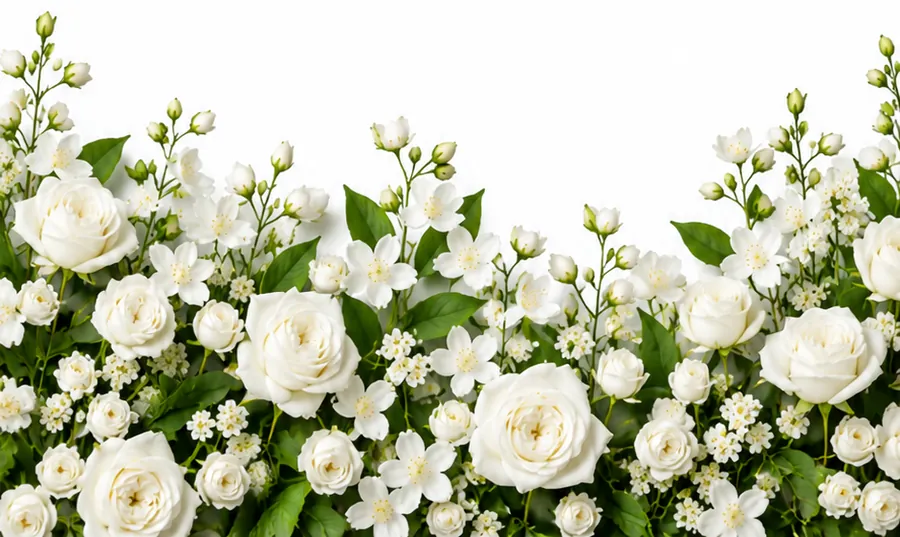
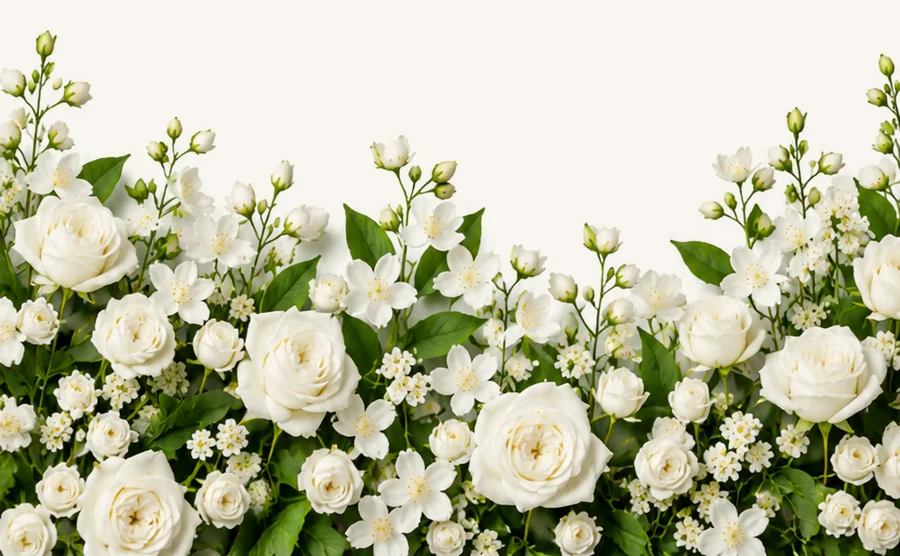
Gulzor: let the photographs flow into the page
The flower photographs are now multiplied onto the paper colour ahead of time, their cut edges feathered,
so no phone shows their white ground as a box. The bouquet fades out into a mist the hanging blossoms come
out of; the second flower border, which stacked against the roses, is gone; the closing flowers grow from
the foot of the page, under the replay buttons.

Claude-Session: https://claude.ai/code/session_01KqcxXTnvoWPWgEwA4zEgYt

diff --git a/src/templates/gulzor/GulzorInvitation.tsx b/src/templates/gulzor/GulzorInvitation.tsx
@@ -184,8 +184,7 @@ export function GulzorInvitation({ data, replayToken = 0, endSlot }: Props) {
 
         {stage === "scene" && (
           <>
-            <Sections data={data} />
-            {endSlot && <div className="gz-end">{endSlot}</div>}
+            <Sections data={data} endSlot={endSlot} />
           </>
         )}
       </div>
@@ -524,7 +523,7 @@ function dialable(phone: string) {
   return digits.length === 9 ? `998${digits}` : digits;
 }
 
-function Sections({ data }: { data: InviteData }) {
+function Sections({ data, endSlot }: { data: InviteData; endSlot?: ReactNode }) {
   const root = useReveal();
   const { d, m, y } = parseDate(data.date);
   const message = data.message || defaultMessage(data);
@@ -565,7 +564,7 @@ function Sections({ data }: { data: InviteData }) {
 
       {/* the day: date, place, programme and what to wear */}
       <section className="gz-panel gz-day">
-        <Wave d={WAVES[3]} />
+        {/* the blossoms hang out of the mist the bouquet fades into */}
         <Blossoms edge="top" seed={3} />
         <p className="gz-kick" data-reveal="up">
           Eng muhimi
@@ -643,7 +642,6 @@ function Sections({ data }: { data: InviteData }) {
         <div className="gz-heart" data-reveal="draw" style={delay(300)}>
           <Icon kind="heart" size={16} />
         </div>
-        <Blossoms edge="bottom" seed={9} />
       </section>
 
       {/* a line about love, under blush roses */}
@@ -741,6 +739,8 @@ function Sections({ data }: { data: InviteData }) {
           Sizni intiqlik bilan kutamiz!
         </p>
         <HeartRule />
+        {endSlot && <div className="gz-end">{endSlot}</div>}
+        {/* the garden grows up from the foot of the page */}
         <Blossoms edge="bottom" seed={17} />
       </section>
     </div>

diff --git a/src/templates/gulzor/gulzor.css b/src/templates/gulzor/gulzor.css
@@ -807,9 +807,9 @@
   z-index: 5;
   padding-top: 0;
 }
-/* the day rises over the foot of the bouquet */
-.gz-day > .gz-wave + .gz-blossoms-top {
-  margin-top: -6px;
+/* the hanging blossoms overlap the bouquet's foot: both fade to the paper there, so one dissolves into the other */
+.gz-day > .gz-blossoms-top:first-child {
+  margin-top: -44px;
 }
 .gz-way {
   padding-top: 26px;
@@ -823,6 +823,7 @@
   padding-top: 30px;
 }
 .gz-close {
+  padding-top: 8px;
   padding-bottom: 0;
 }
 
@@ -917,8 +918,8 @@
   width: 100%;
   aspect-ratio: 1;
   object-fit: cover;
-  -webkit-mask-image: linear-gradient(180deg, transparent 0%, #000 34%);
-  mask-image: linear-gradient(180deg, transparent 0%, #000 34%);
+  -webkit-mask-image: linear-gradient(180deg, transparent 0%, #000 26%, #000 52%, transparent 85%);
+  mask-image: linear-gradient(180deg, transparent 0%, #000 26%, #000 52%, transparent 85%);
 }
 .gz-drawn-bouquet {
   width: 78%;
@@ -936,7 +937,6 @@
   display: block;
   width: 100%;
   height: auto;
-  mix-blend-mode: multiply;
 }
 .gz-blossoms-top img {
   object-position: 50% 0;
@@ -948,7 +948,7 @@
   margin-bottom: 4px;
 }
 .gz-blossoms-bottom {
-  margin-top: 30px;
+  margin-top: 10px;
 }
 /* drawn stand-ins: two sprays leaning in from the corners */
 .gz-spray {
@@ -1215,7 +1215,6 @@
 .gz-roses-img {
   display: block;
   width: 100%;
-  mix-blend-mode: multiply;
 }
 .gz-drawn-roses {
   padding: 4px 0 0 30%;
@@ -1581,7 +1580,10 @@
   background: var(--gz-line);
 }
 .gz-end {
-  background: var(--gz-paper);
+  margin: 26px -28px 0;
+}
+.gz-end .sc-end {
+  padding-bottom: 0;
 }
 
 /* ------------------------------------------------------------------ */
